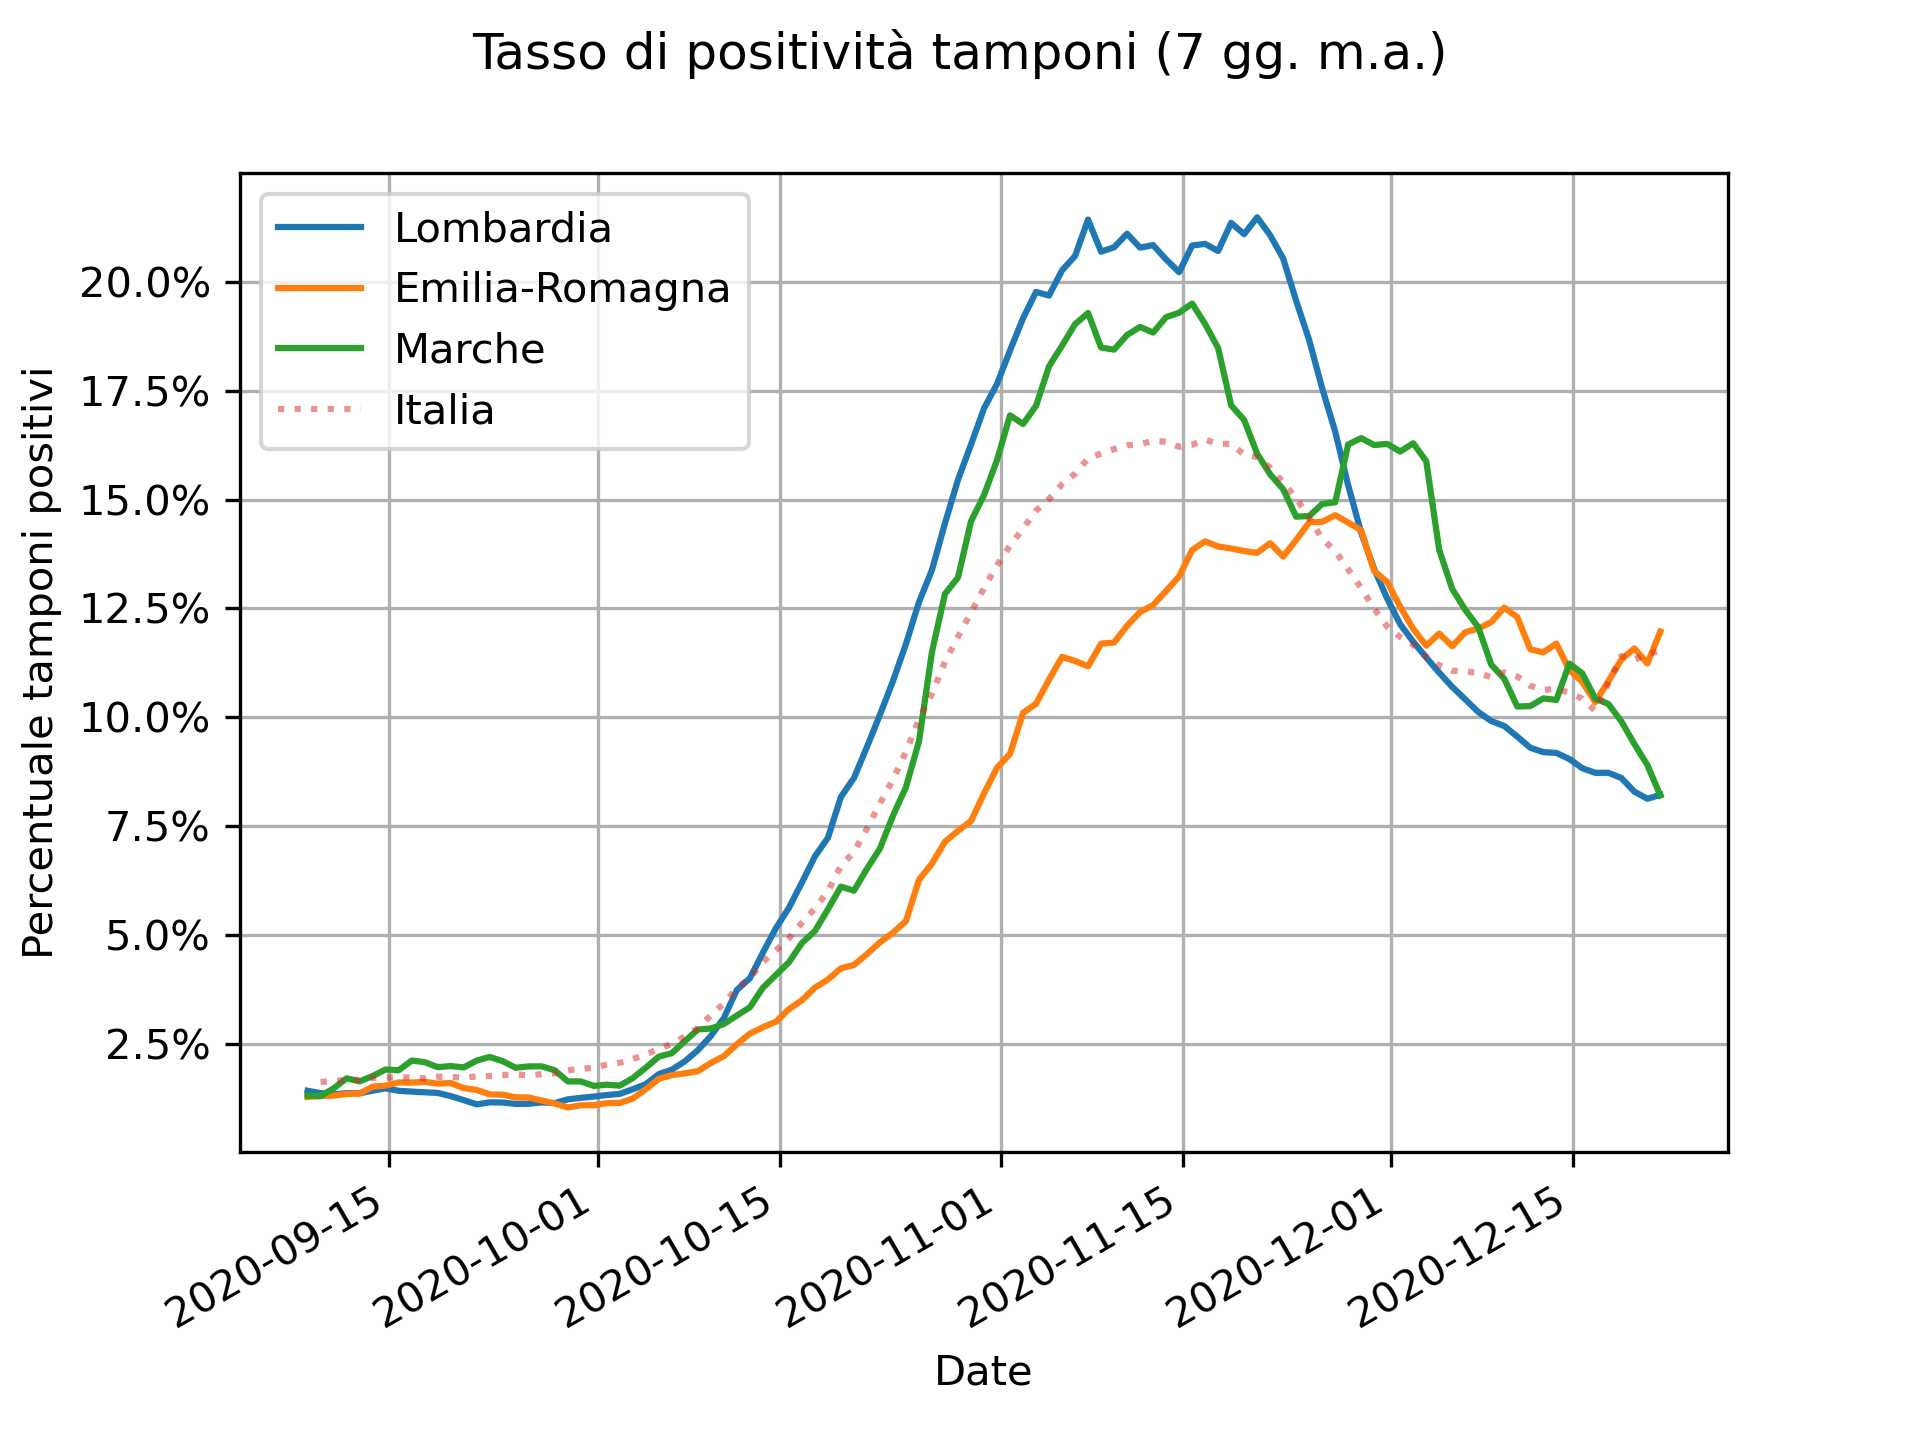
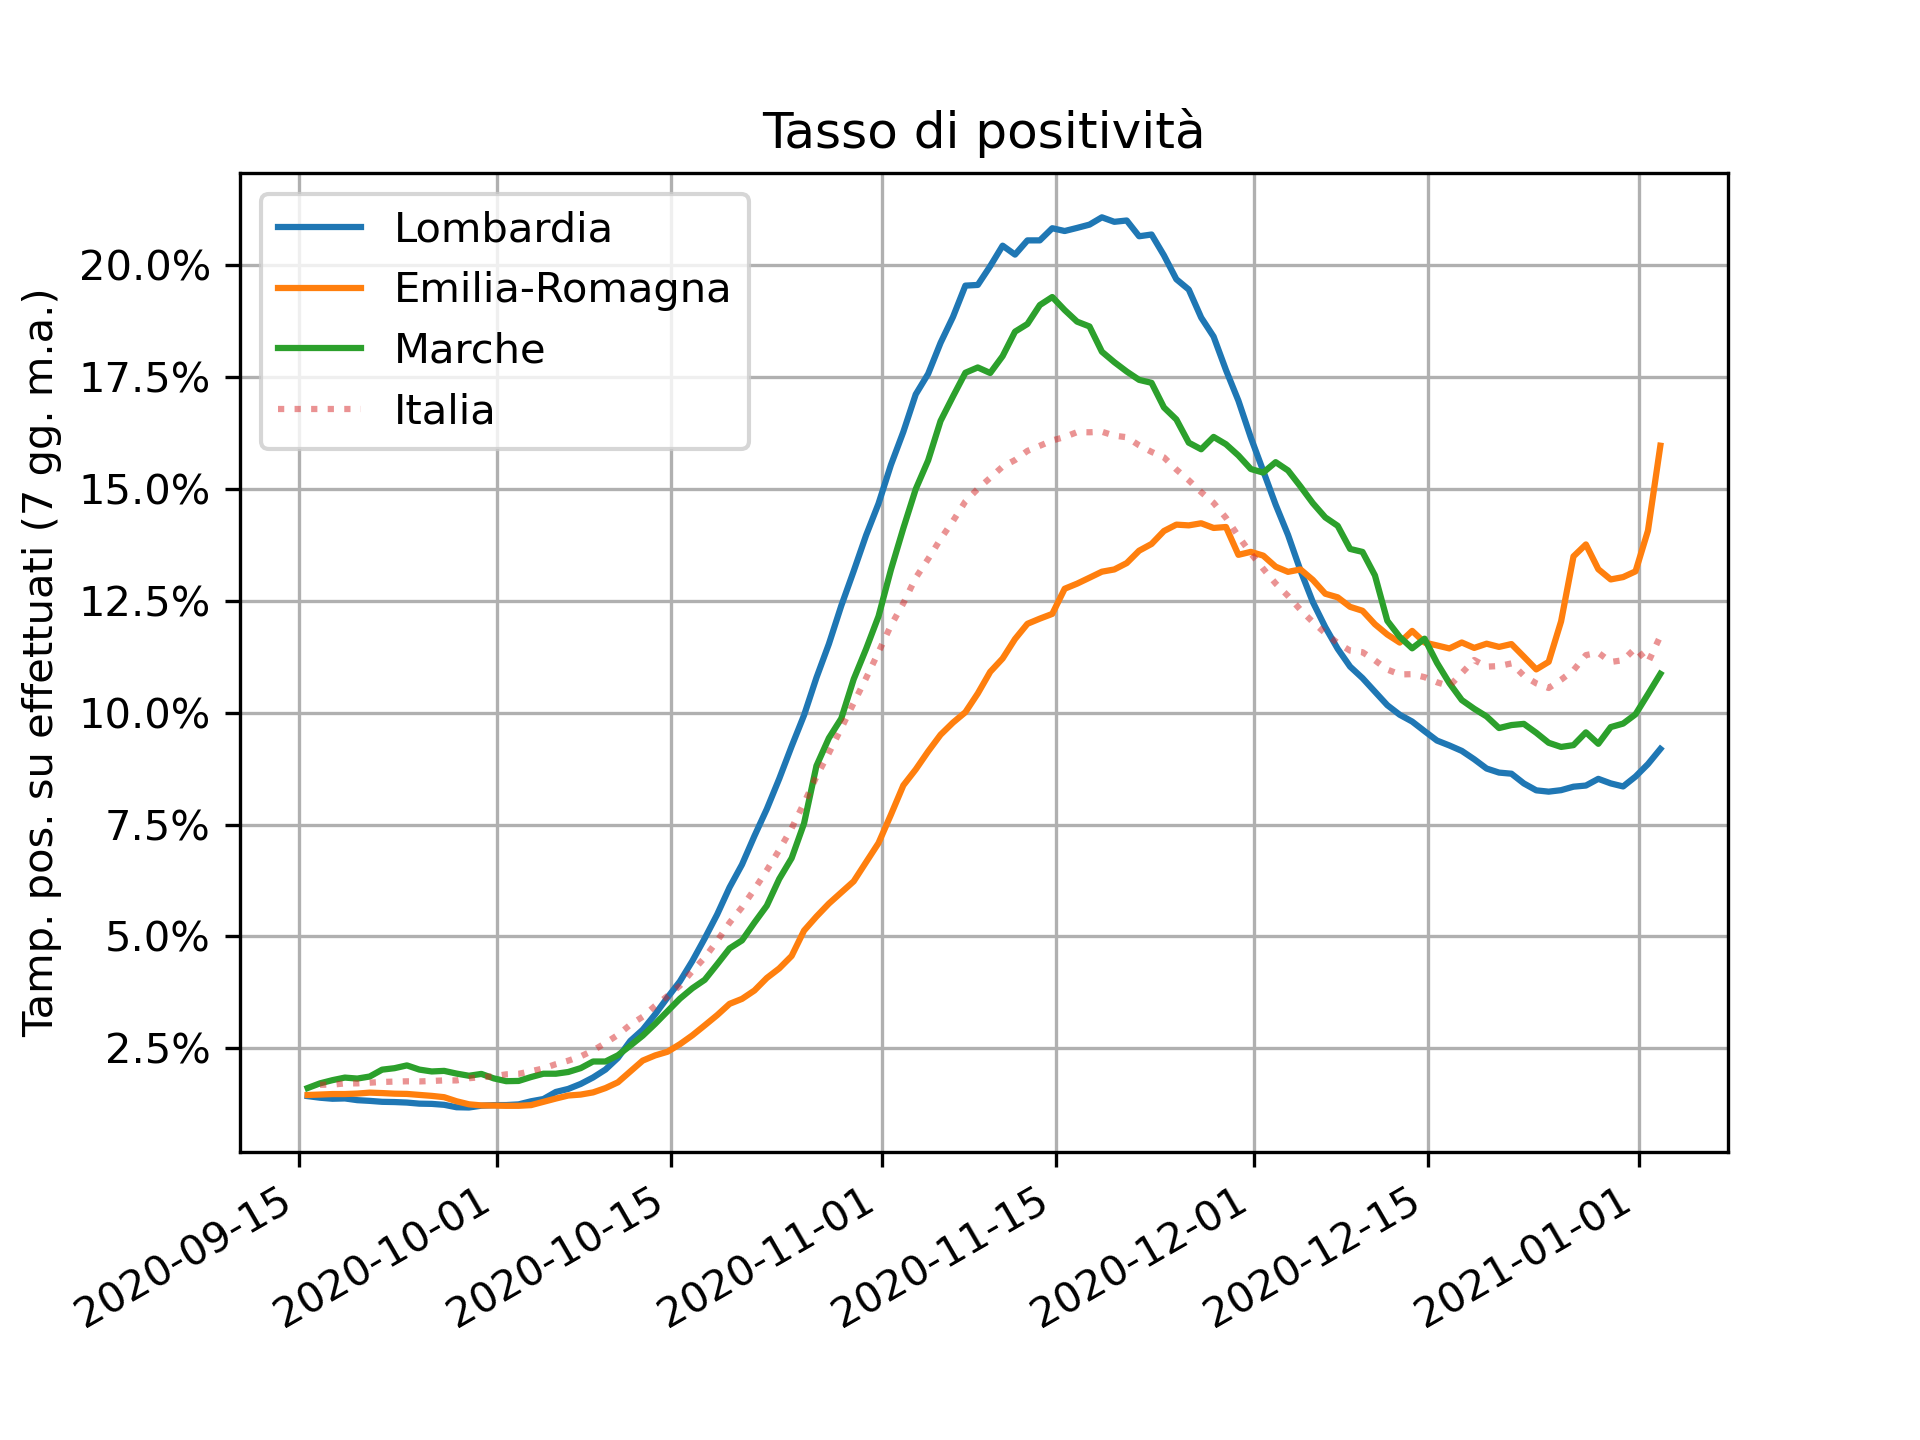
Chart refactor and moving average adjustments

diff --git a/regions/analysis.py b/regions/analysis.py
@@ -102,16 +102,14 @@ def compute_ti_occupation_per_regions(save_image=False, show=False):
 
     plt.plot(national_df['data'], national_df['occupazione_ti'], alpha=0.5, linestyle=':', label="Italia")
 
-    plt.axhline(y=0.3, color='r', linestyle='--', label="Livello d'allerta")
-    plt.axhline(y=1, color='y', linestyle='--', label="Saturazione")
+    plt.axhline(y=0.3, color='y', linestyle='--', alpha=0.5, label="Livello d'allerta")
+    plt.axhline(y=1, color='r', linestyle='--', alpha=0.5, label="Saturazione")
 
     plt.gca().yaxis.set_major_formatter(mtick.PercentFormatter(xmax=1))
     plt.gcf().autofmt_xdate()
     plt.grid(True)
-    plt.suptitle('Percentuale occupazione TI')
-
-    plt.xlabel('Date')
-    plt.ylabel('Percentuale occupazione TI')
+    plt.title('Occupazione TI')
+    plt.ylabel('Percentuale occupaz. TI')
     plt.legend()
 
     if save_image:
@@ -131,19 +129,17 @@ def compute_positivity_per_regions(save_image=False, show=False):
     regions = extract_regions_of_interest()
 
     for region_name, region in regions.items():
-        dates, pos = compute_x_days_mov_average(region, 'tasso_positivita', 7)
+        dates, pos = compute_x_days_mov_average(region, 'tasso_positivita', 14)
         plt.plot(dates, pos, label=region_name)
 
-    dates, pos = compute_x_days_mov_average(national_df, 'tasso_positivita', 7)
+    dates, pos = compute_x_days_mov_average(national_df, 'tasso_positivita', 14)
     plt.plot(dates, pos, alpha=0.5, linestyle=':', label="Italia")
 
     plt.gca().yaxis.set_major_formatter(mtick.PercentFormatter(xmax=1))
     plt.gcf().autofmt_xdate()
     plt.grid(True)
-    plt.suptitle('Tasso di positività tamponi (7 gg. m.a.)')
-
-    plt.xlabel('Date')
-    plt.ylabel('Percentuale tamponi positivi')
+    plt.title('Tasso di positività')
+    plt.ylabel('Tamp. pos. su effettuati (7 gg. m.a.)')
     plt.legend()
 
     if save_image:
@@ -169,8 +165,7 @@ def compute_rec_with_symptoms(save_image=False, show=False):
 
     plt.gcf().autofmt_xdate()
     plt.grid(True)
-    plt.title('Ricoverati con sintomi ogni 100.000 abitanti')
-    plt.xlabel('Date')
+    plt.title('Ricoverati con sintomi')
     plt.ylabel('Ric. con sintomi ogni 100.000 abitanti')
     plt.legend()
 
@@ -199,9 +194,8 @@ def compute_daily_cases(save_image=False, show=False):
 
     plt.gcf().autofmt_xdate()
     plt.grid(True)
-    plt.title('Nuovi positivi ogni 100.000 abitanti (7 gg. m.a.)')
-    plt.xlabel('Date')
-    plt.ylabel('Nuovi positivi ogni 100.000 abitanti')
+    plt.title('Nuovi positivi')
+    plt.ylabel('Nuovi pos. ogni 100.000 ab. (7 gg. m.a.)')
     plt.legend()
 
     if save_image:
@@ -229,9 +223,9 @@ def compute_death(save_image=False, show=False):
 
     plt.gcf().autofmt_xdate()
     plt.grid(True)
-    plt.title('Deceduti ogni 100.000 abitanti (7 gg. m.a.)')
+    plt.title('Deceduti')
     plt.xlabel('Date')
-    plt.ylabel('Deceduti ogni 100.000 abitanti')
+    plt.ylabel('Dec. ogni 100.000 ab. (7 gg. m.a.)')
     plt.legend()
 
     if save_image:
@@ -262,8 +256,7 @@ def compute_marche_data(save_image=False, show=False):
 
     plt.gcf().autofmt_xdate()
     plt.grid(True)
-    plt.title('Parametri regione Marche')
-    plt.xlabel('Date')
+    plt.title('Parametri  COVID-19 Marche')
     plt.ylabel('Variaz. parametri')
     plt.legend()
 

diff --git a/provinces/analysis.py b/provinces/analysis.py
@@ -86,17 +86,16 @@ def compute_total_cases_per_provinces(save_image=False, show=False):
     provinces = extract_provinces_of_marche()
 
     for province_name, province in provinces.items():
-        dates, cases = compute_x_days_mov_average(province, 'incr_casi_per_100000_ab', 20)
+        dates, cases = compute_x_days_mov_average(province, 'incr_casi_per_100000_ab', 28)
         plt.plot(dates, cases, label=province_name)
 
-    dates, cases = compute_x_days_mov_average(national_df, 'nuovi_pos_per_100000_ab', 7)
+    dates, cases = compute_x_days_mov_average(national_df, 'nuovi_pos_per_100000_ab', 28)
     plt.plot(dates, cases, alpha=0.5, linestyle=':', label="Italia")
 
     plt.gcf().autofmt_xdate()
     plt.grid(True)
-    plt.title('Nuovi positivi Marche ogni 100.000 abitanti (20 gg. m.a.)')
-    plt.xlabel('Date')
-    plt.ylabel('Nuovi positivi ogni 100.000 abitanti')
+    plt.title('Nuovi positivi Marche (valori relativi)')
+    plt.ylabel('Nuovi pos. ogni 100.000 ab. (1m. m.a.)')
     plt.legend()
 
     if save_image:
@@ -116,14 +115,13 @@ def compute_total_cases_per_provinces_abs(save_image=False, show=False):
     provinces = extract_provinces_of_marche()
 
     for province_name, province in provinces.items():
-        dates, cases = compute_x_days_mov_average(province, 'incremento_casi', 20)
+        dates, cases = compute_x_days_mov_average(province, 'incremento_casi', 28)
         plt.plot(dates, cases, label=province_name)
 
     plt.gcf().autofmt_xdate()
     plt.grid(True)
-    plt.title('Nuovi positivi Marche in valori assoluti (20 gg. m.a.)')
-    plt.xlabel('Date')
-    plt.ylabel('Nuovi positivi')
+    plt.title('Nuovi positivi Marche (valori assoluti)')
+    plt.ylabel('Nuovi pos. in val. ass. (1m. m.a.)')
     plt.legend()
 
     if save_image:

diff --git a/national/analysis.py b/national/analysis.py
@@ -88,7 +88,6 @@ def compute_national_data(save_image=False, show=False):
     plt.gcf().autofmt_xdate()
     plt.grid(True)
     plt.title('Parametri COVID-19 Italia')
-    plt.xlabel('Date')
     plt.ylabel('Variaz. parametri')
     plt.legend()
 
